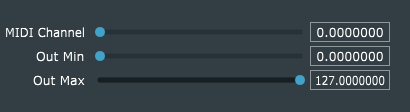
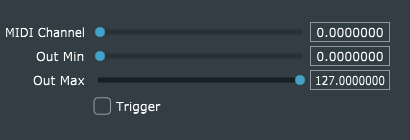
MIDI-PC-Randomizer: add Trigger parameter

diff --git a/MIDI-PC-Randomizer/Plugin/PluginProcessor.cpp b/MIDI-PC-Randomizer/Plugin/PluginProcessor.cpp
@@ -22,9 +22,11 @@ PluginProcessor::PluginProcessor()
     midiChParam = params.addInt("midiChannel", "MIDI Channel", 0, 16, 0);
     outMinParam = params.addInt("outMin", "Out Min", 0, 127, 0);
     outMaxParam = params.addInt("outMax", "Out Max", 0, 127, 127);
+    triggerParam = params.addBool("trigger", "Trigger", false);
 
     outMinParam->addListener(this);
     outMaxParam->addListener(this);
+    triggerParam->addListener(this);
 }
 
 bool PluginProcessor::isBusesLayoutSupported(const BusesLayout& layout) const
@@ -41,7 +43,21 @@ void PluginProcessor::prepareToPlay(double, int)
 
 void PluginProcessor::parameterValueChanged(int parameterIndex, float newValue)
 {
-    dis = std::uniform_int_distribution<>(*outMinParam, *outMaxParam);
+    switch (parameterIndex)
+    {
+    case 0: // MIDI channel
+        break;
+
+    case 1: // outMin
+    case 2: // outMax
+        dis = std::uniform_int_distribution<>(*outMinParam, *outMaxParam);
+        break;
+
+    case 3: // trigger
+        triggered = (*triggerParam && !lastTriggerParamValue);
+        lastTriggerParamValue = *triggerParam;
+        break;
+    }
 }
 
 // Process one buffer ("block") of data
@@ -50,6 +66,15 @@ void PluginProcessor::processBlock(AudioBuffer<float>&, MidiBuffer& midiIn)
     int matchChannel = *midiChParam;
 
     MidiBuffer midiOut;
+    if (triggered)
+    {
+        int ch = (matchChannel == 0) ? 1 : matchChannel;
+        int progNum = dis(gen);
+        auto outMsg = MidiMessage::programChange(ch, progNum);
+        midiOut.addEvent(outMsg, 0);
+        triggered = false;
+    }
+
     for (auto& mm : midiIn)
     {
         auto inMsg = mm.getMessage();

diff --git a/MIDI-PC-Randomizer/Plugin/PluginProcessor.h b/MIDI-PC-Randomizer/Plugin/PluginProcessor.h
@@ -55,6 +55,9 @@ protected:
     AudioParameterInt* midiChParam;
     AudioParameterInt* outMinParam;
     AudioParameterInt* outMaxParam;
+    AudioParameterBool* triggerParam;
+    bool lastTriggerParamValue = false;
+    bool triggered = false;
 
 private:
     JUCE_DECLARE_NON_COPYABLE_WITH_LEAK_DETECTOR (PluginProcessor)

diff --git a/MIDI-PC-Randomizer/README.md b/MIDI-PC-Randomizer/README.md
@@ -9,9 +9,11 @@ The GUI provides three sliders:
 
 - **MIDI Channel** may be set to 0 through 16. If the value is 0, the plug-in listens for MIDI PC messages on all MIDI channels. Otherwise, it listens only on the specified channel.
 - **Out Min** and **Out Max** define the range of output program-numbers, from which a random number is selected in response to each input PC message.
+- **Trigger** is a Boolean parameter. When it goes from *false* (checkbox unchecked, automation value < 0.5) to *true* (checkbox checked, automation value > 0.5), a single random PC message will be generated.
 
 ### Notes
 
 - If **MIDI Channel** is non-zero, the plug-in will filter out ALL MIDI messages (not just PC messages) on any other channel.
 - The output MIDI PC messages are sent on the same MIDI channel as the input messages. In effect, the program-number of each input MIDI PC message is randomized, and everything else is unchanged.
+- *Triggered* MIDI PC messages are sent on the MIDI channel defined by the **MIDI Channel** parameter, or on channel 1 if the parameter is zero.
 
